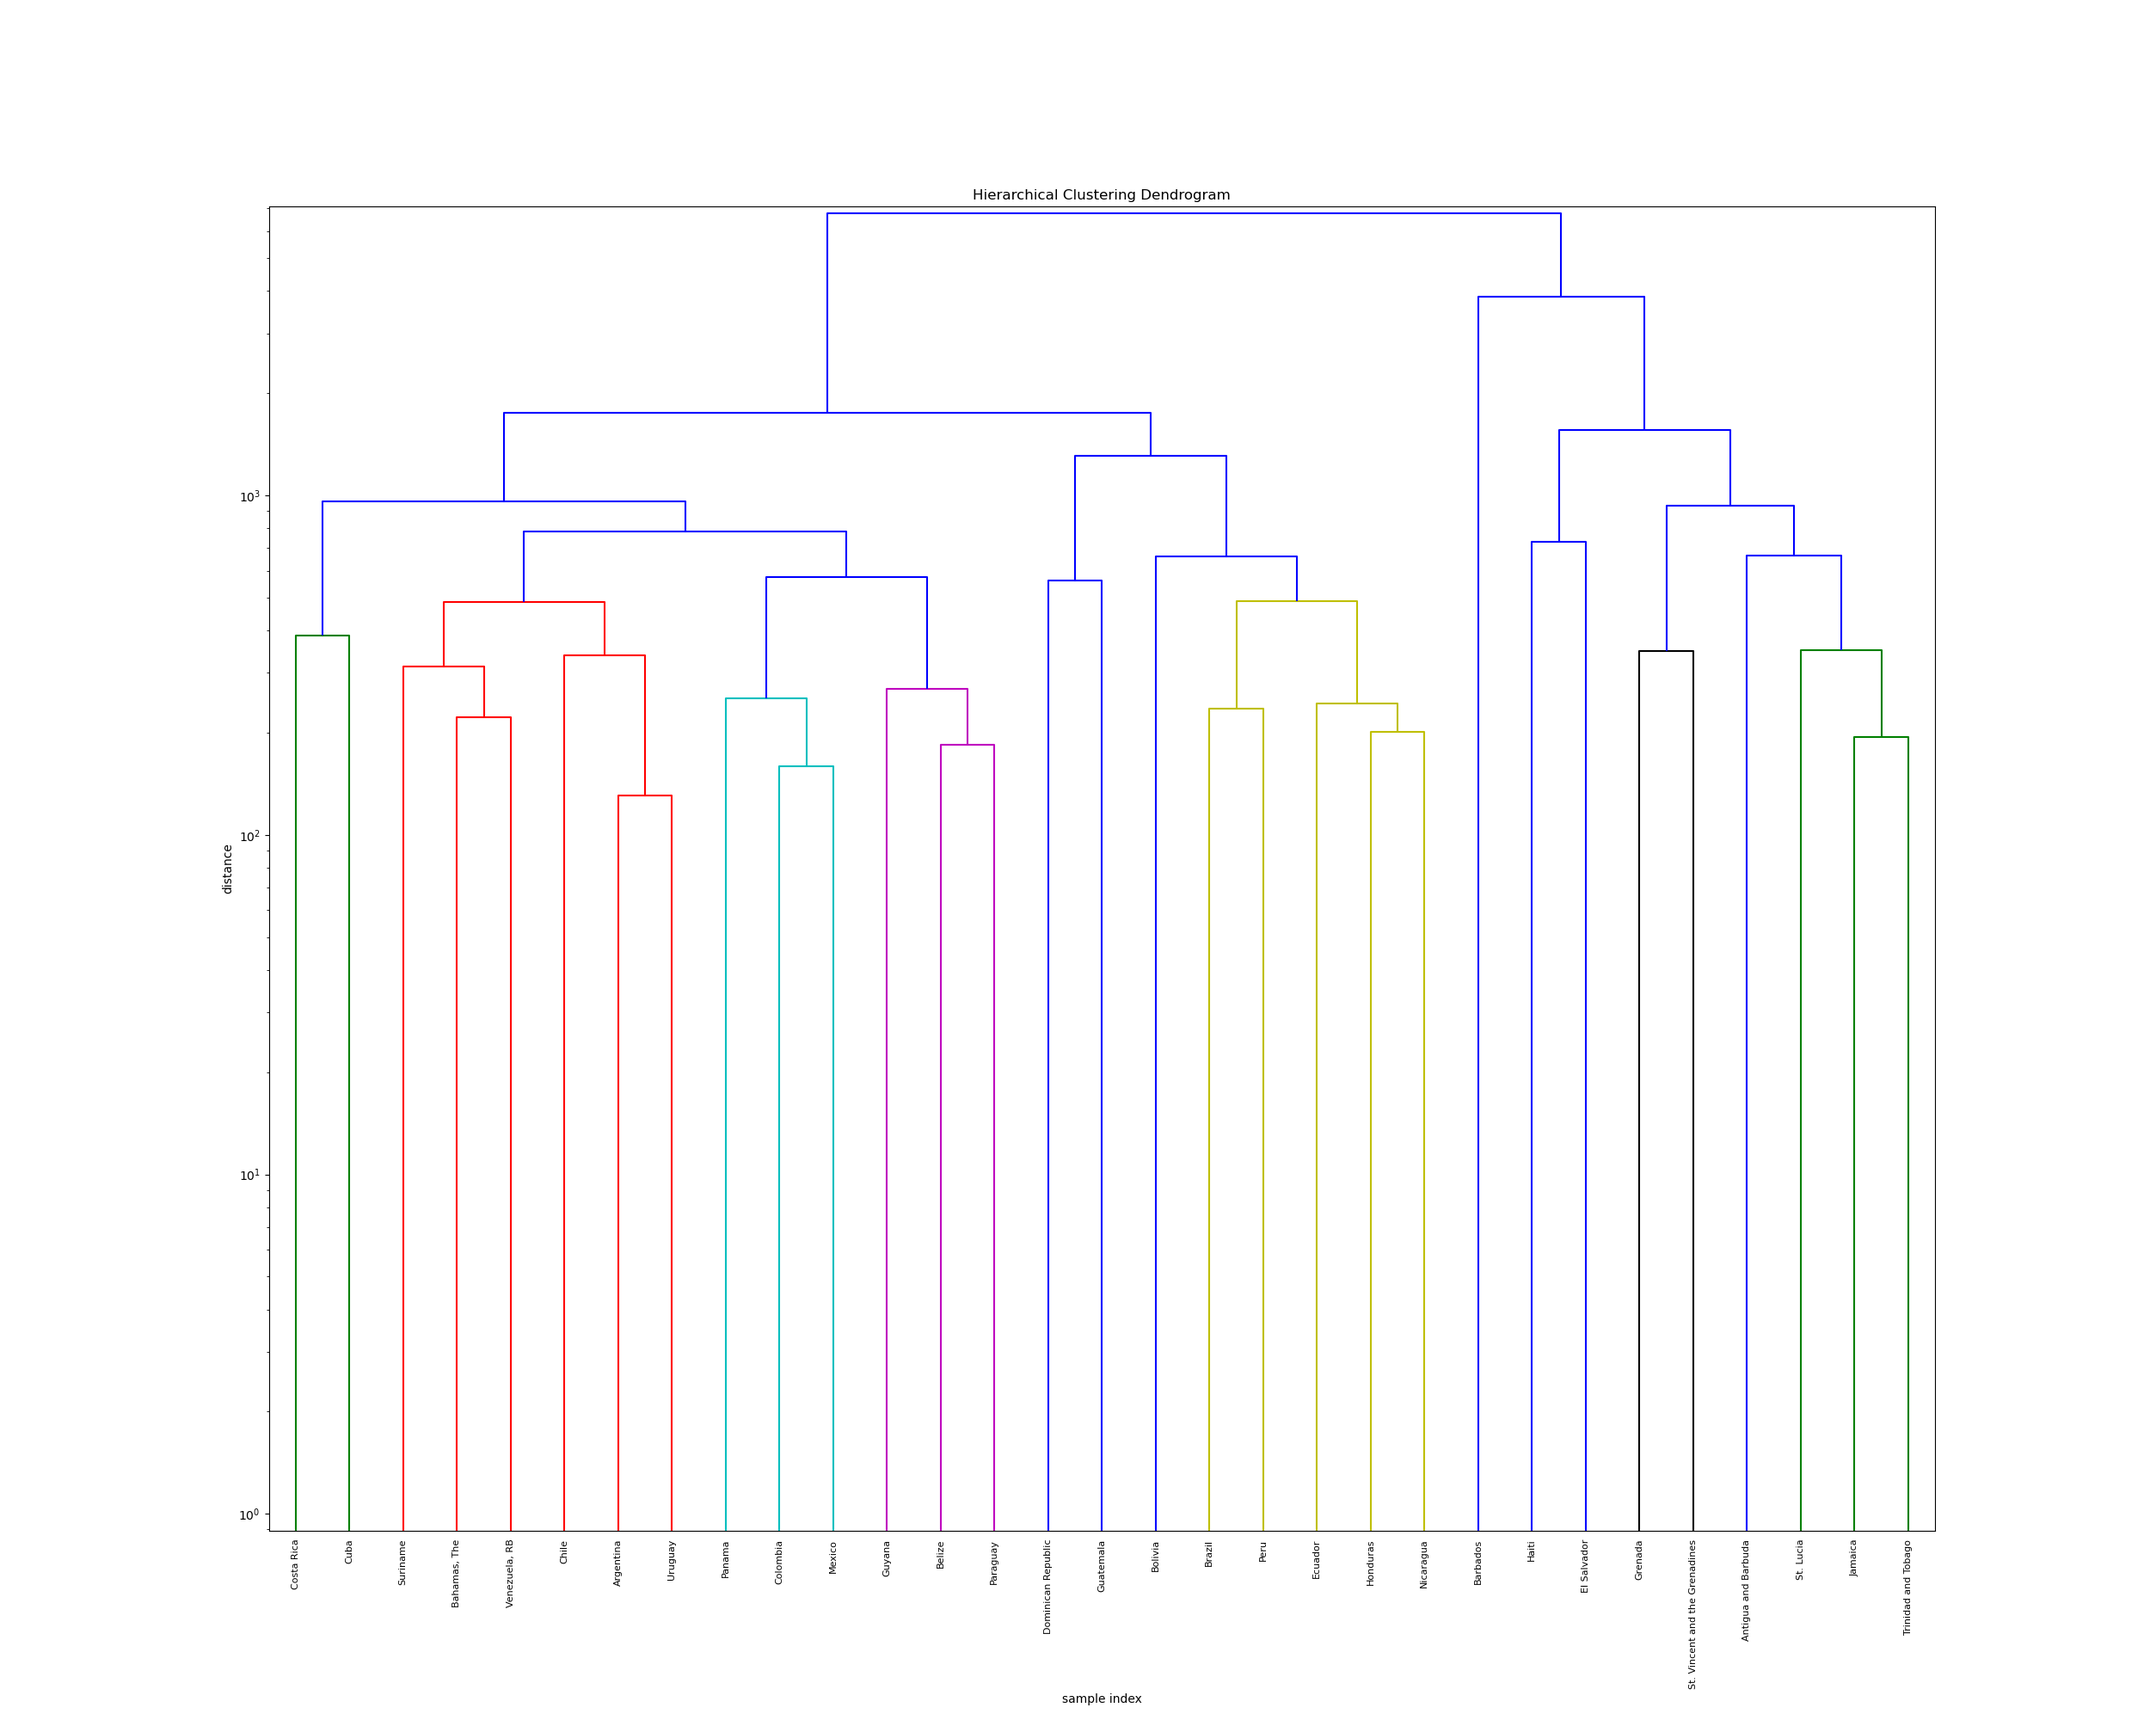
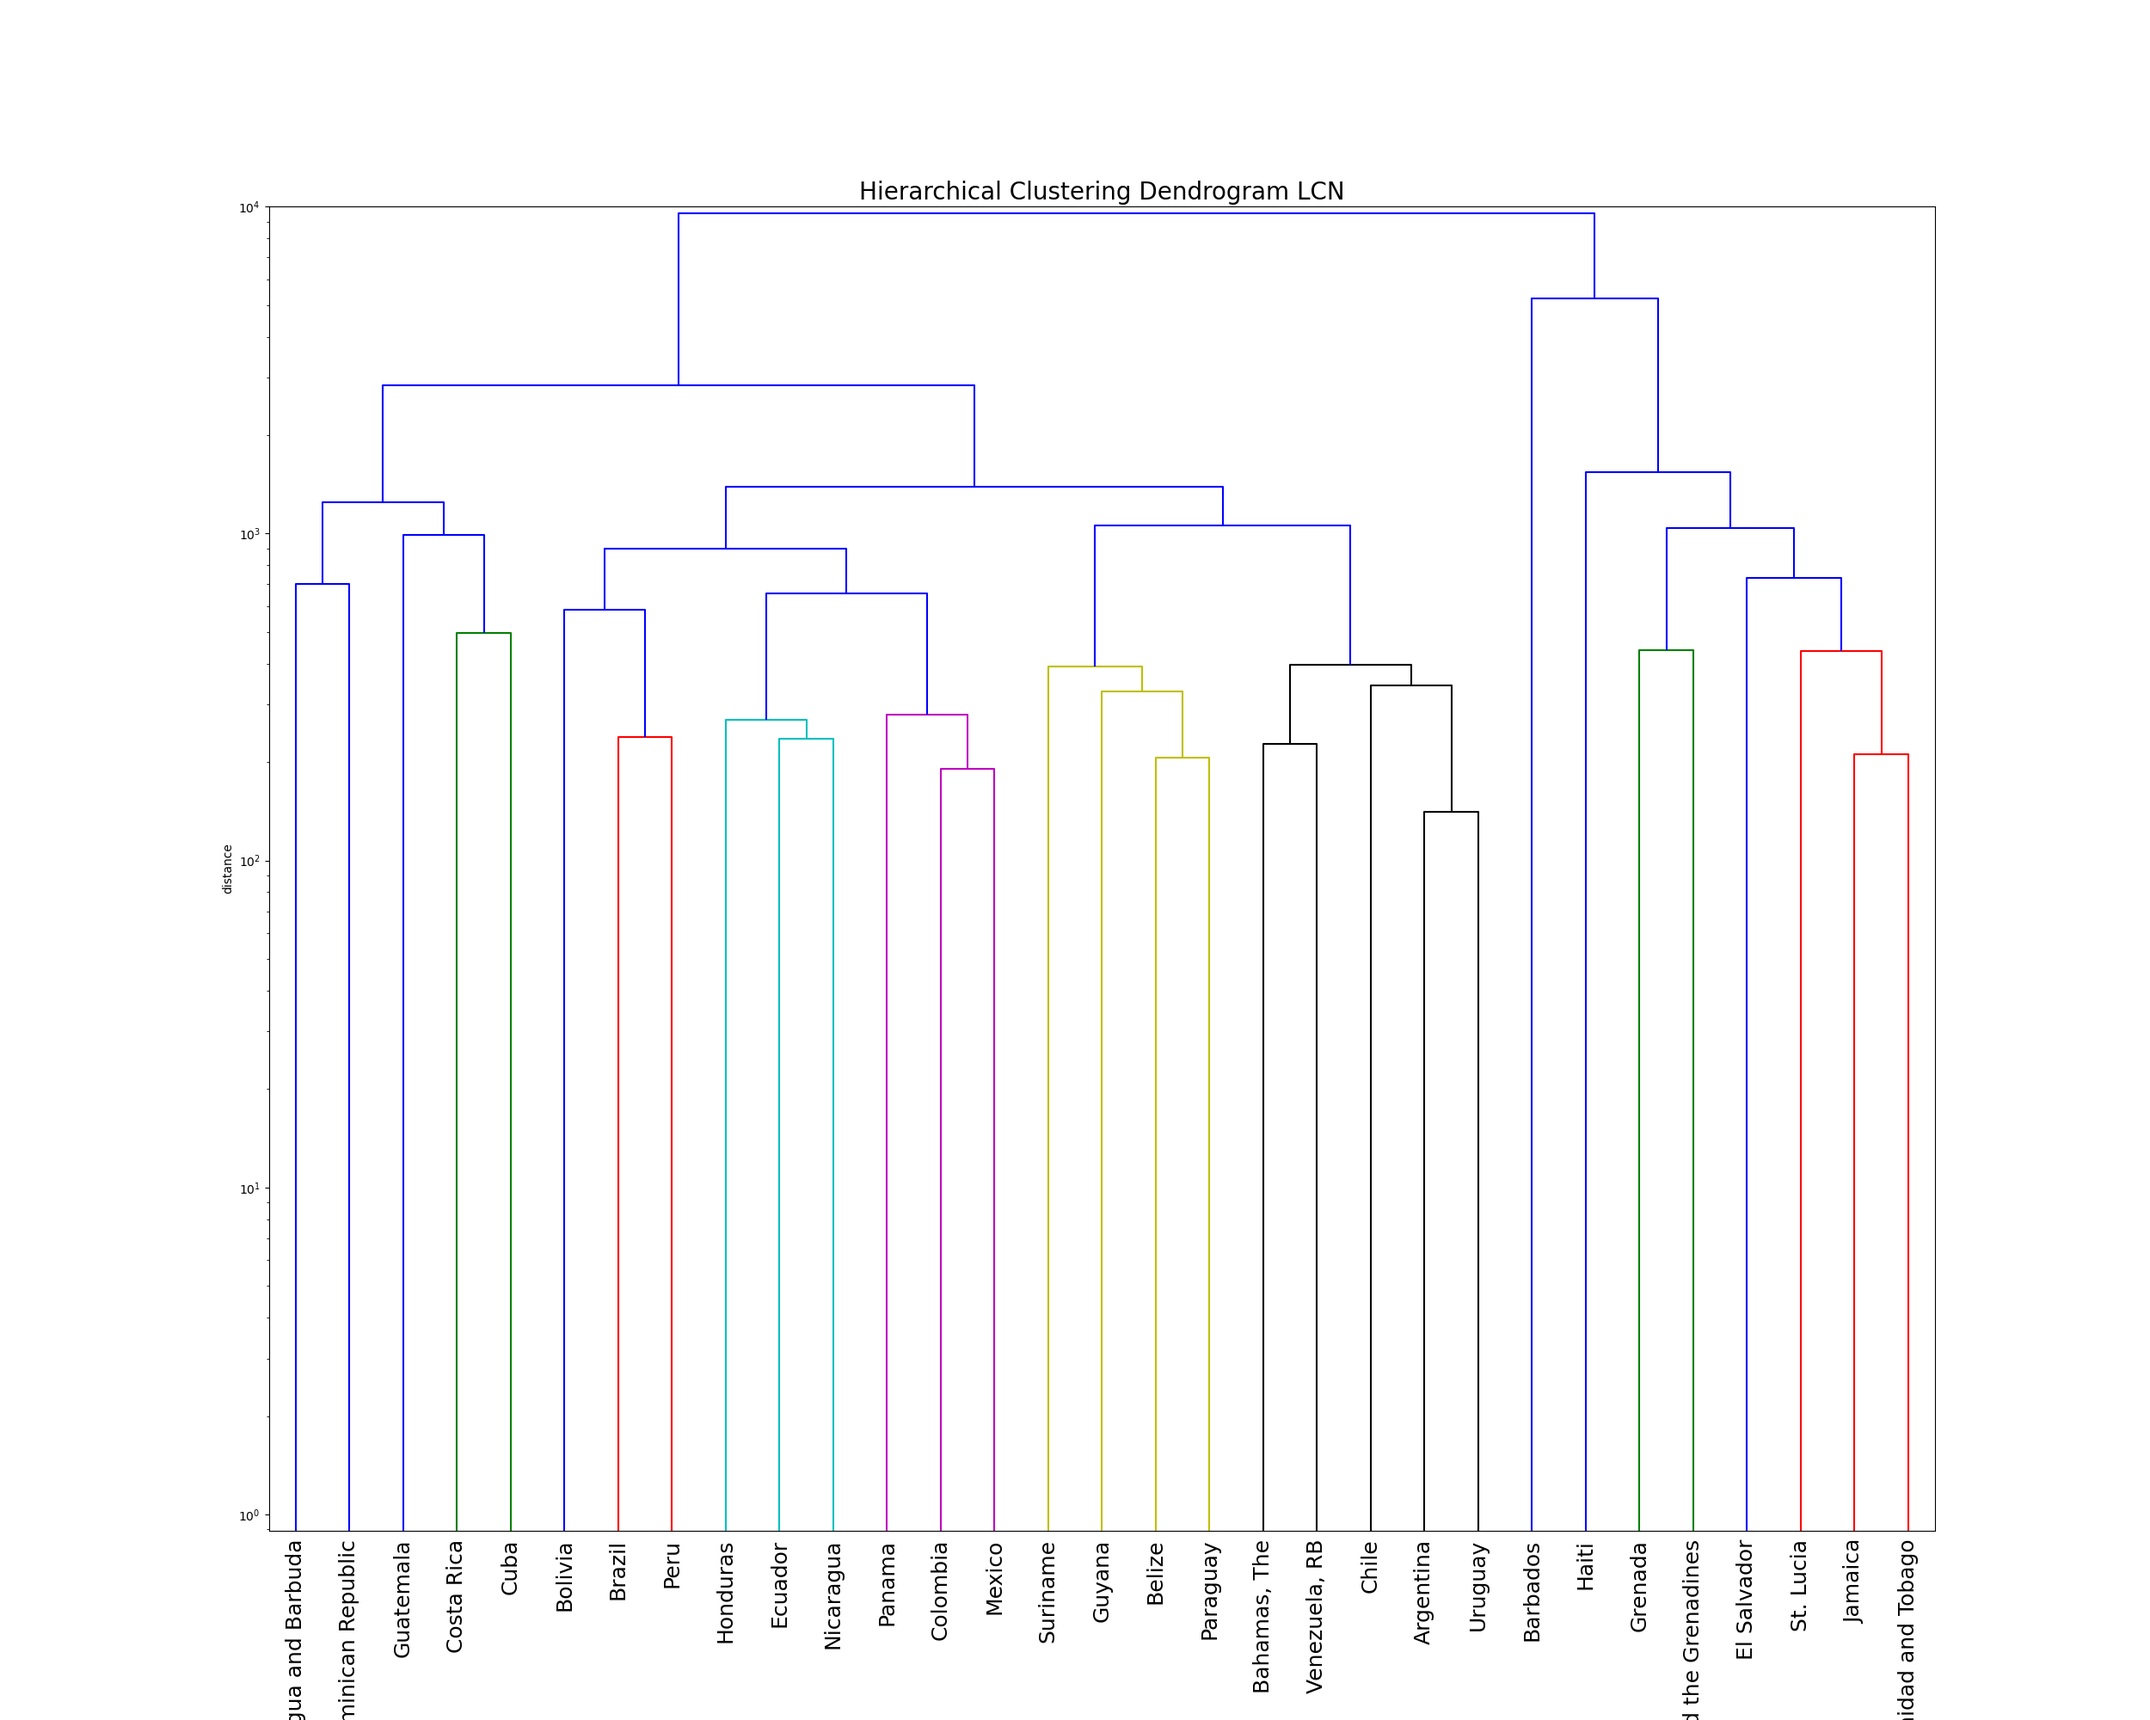
[DENDRO] economic regions

diff --git a/hierarchical-example.py b/hierarchical-example.py
@@ -20,22 +20,40 @@ all_regions = word_bank_data_loader.regions
 # missing values are replaced by mean values of a particular country's data
 NULL_PLACEHOLDER = -1
 imputer = impute.SimpleImputer(missing_values=NULL_PLACEHOLDER, strategy='mean')
-demografic_indicators = ['Population density (people per sq. km of land area)',
-                         'Urban population (% of total population)',
-                         "Birth rate, crude (per 1,000 people)",
-                         "Death rate, crude (per 1,000 people)",
-                         "Population, male (% of total population)",
-                         "Sex ratio at birth (male births per female births)",
-                         "Age dependency ratio (% of working-age population)",
-                         "Age dependency ratio, old (% of working-age population)",
-                         "Age dependency ratio, young (% of working-age population)",
-                         "Mortality rate, under-5 (per 1,000 live births)",
-                         "Fertility rate, total (births per woman)"]
+
+DEMOGRAPHIC_INDICATORS = [
+    'Population density (people per sq. km of land area)',
+    'Urban population (% of total population)',
+    "Birth rate, crude (per 1,000 people)",
+    "Death rate, crude (per 1,000 people)",
+    "Population, male (% of total population)",
+    "Sex ratio at birth (male births per female births)",
+    "Age dependency ratio (% of working-age population)",
+    "Age dependency ratio, old (% of working-age population)",
+    "Age dependency ratio, young (% of working-age population)",
+    "Urban population (% of total population)",
+    "Mortality rate, under-5 (per 1,000 live births)",
+    "Fertility rate, total (births per woman)",
+    "Population density (people per sq. km of land area)"
+]
+
+ECONOMIC_INDICATORS = [
+    'GNI per capita',
+    'Adjusted savings: education expenditure (% of GNI)',
+    'GDP (current US$)',
+    # 'Central government debt, total (% of GDP)',
+    'Exports of goods and services (% of GDP)',
+    'Imports of goods and services (% of GDP)',
+    'Final consumption expenditure (% of GDP)',
+    'Gross capital formation (% of GDP)',
+    'Expense (% of GDP)',
+    'Inflation, GDP deflator (annual %)'
+]
 
 
-def get_data_per_country(indicators, strategy, region_name):
+def get_data_per_country(indicators, region_name, group_name, start_year=None, strategy="mean"):
     data_per_country = {}
-    region_data = get_region(region_name)
+    region_data = get_region(region_name, group_name, start_year=start_year)
     region_data = verify_region_countries(indicators, region_data)
     for country_name in region_data:
         data = region_data[country_name][
@@ -45,29 +63,53 @@ def get_data_per_country(indicators, strategy, region_name):
     return data_per_country
 
 
-if __name__ == "__main__":
-    strategy = "mean"
+def plot_dendrogram(group_name, region, data_per_country, featured_countries, strategy="mean", color_threshold=500):
+    X = np.array([np.array(data_per_country[country]).flatten() for country in featured_countries])
+    metric = "euclidean"
+    method = "ward"
+    Z = linkage(X, method, metric=metric)
+    fig = plt.figure(figsize=(25, 20))
+    plt.title('Hierarchical Clustering Dendrogram ' + region, fontsize=20)
+    plt.xlabel('sample index')
+    plt.ylabel('distance')
+    plt.yscale("log")
+    ax = fig.add_subplot(1, 1, 1)
+    dendrogram(
+        Z,
+        leaf_rotation=90.,  # rotates the x axis labels
+        # leaf_font_size=10,  # font size for the x axis labels
+        labels=np.array(featured_countries),
+        color_threshold=color_threshold,
+        ax=ax
+    )
+    ax.tick_params(axis='x', which='major', labelsize=18)
+    ax.tick_params(axis='y', which='major', labelsize=10)
+    plt.savefig(
+        group_name + "/dendrogram_regions/" + region + "_hierarchical_" + metric + "_" + method + "_" + strategy + ".png")
+    plt.show()
+
+
+def evaluate_demography():
+    group_name = "demography"
     for region in all_regions:
-        used_indicators = demografic_indicators
-        data_per_country = get_data_per_country(used_indicators, strategy, region)
+        used_indicators = DEMOGRAPHIC_INDICATORS
+        data_per_country = get_data_per_country(used_indicators, region, group_name)
+        featured_countries = [country for (country, data) in data_per_country.items() if data.shape == (60, 13)]
+        plot_dendrogram(group_name, region, data_per_country, featured_countries)
 
-        featured_countries = [country for (country, data) in data_per_country.items() if data.shape == (60, 11)]
 
-        X = np.array([np.array(data_per_country[country]).flatten() for country in featured_countries])
-        metric = "euclidean"
-        method = "ward"
-        Z = linkage(X, method, metric=metric)
-        plt.figure(figsize=(25, 20))
-        plt.title('Hierarchical Clustering Dendrogram')
-        plt.xlabel('sample index')
-        plt.ylabel('distance')
-        plt.yscale("log")
-        dendrogram(
-            Z,
-            leaf_rotation=90.,  # rotates the x axis labels
-            leaf_font_size=8,  # font size for the x axis labels
-            labels=np.array(featured_countries),
-            color_threshold=500
-        )
-        plt.savefig("demography/dendrogram_regions/" + region + "_hierarchical_" + metric + "_" + method + "_" + strategy + ".png")
-        plt.show()
+def evaluate_economy():
+    group_name = "economy"
+    for region in all_regions:
+        if region != 'NA':
+            used_indicators = ECONOMIC_INDICATORS
+            data_per_country = get_data_per_country(used_indicators, region, group_name, start_year=1989)
+            for (country, data) in data_per_country.items():
+                print(country, data.shape)
+            featured_countries = [country for (country, data) in data_per_country.items() if data.shape == (30, 8)]
+            plot_dendrogram(group_name, region, data_per_country, featured_countries, color_threshold=100000000000)
+
+
+if __name__ == "__main__":
+    evaluate_demography()
+    evaluate_economy()

diff --git a/existence_checker.py b/existence_checker.py
@@ -38,18 +38,19 @@ ECONOMIC_INDICATORS = [
 ]
 
 
-def get_region(region_name, group_name):
+def get_region(region_name, group_name, start_year=None):
     region_countries = {country['name']: None for country in all_countries if
                         country['region']['id'] == region_name}
-    print(region_name)
+    # print(region_name)
     to_del = []
     for country_name in region_countries:
         try:
             country_data_path = os.path.join(group_name, "downloaded_countries", country_name + ".csv")
             region_countries[country_name] = pandas.read_csv(country_data_path)
 
-            region_countries[country_name] = region_countries[country_name][
-                region_countries[country_name]['date'] > 1980]
+            if start_year is not None:
+                region_countries[country_name] = region_countries[country_name][
+                    region_countries[country_name]['date'] > start_year]
 
         except FileNotFoundError:  # thrown for regions because could not call get_dataframe for region
             print("Downloading data for %s failed." % country_name)
@@ -112,7 +113,7 @@ def existence_checker_economy():
     for region_name in all_regions:
         if region_name != 'NA':
             print(region_name)
-            region_countries = get_region(region_name, "economy")
+            region_countries = get_region(region_name, "economy", start_year=1989)
             verify_region_countries_and_plot_statistics(indicators=ECONOMIC_INDICATORS, countries=region_countries,
                                                         region_name=region_name, group_name="economy")
 
